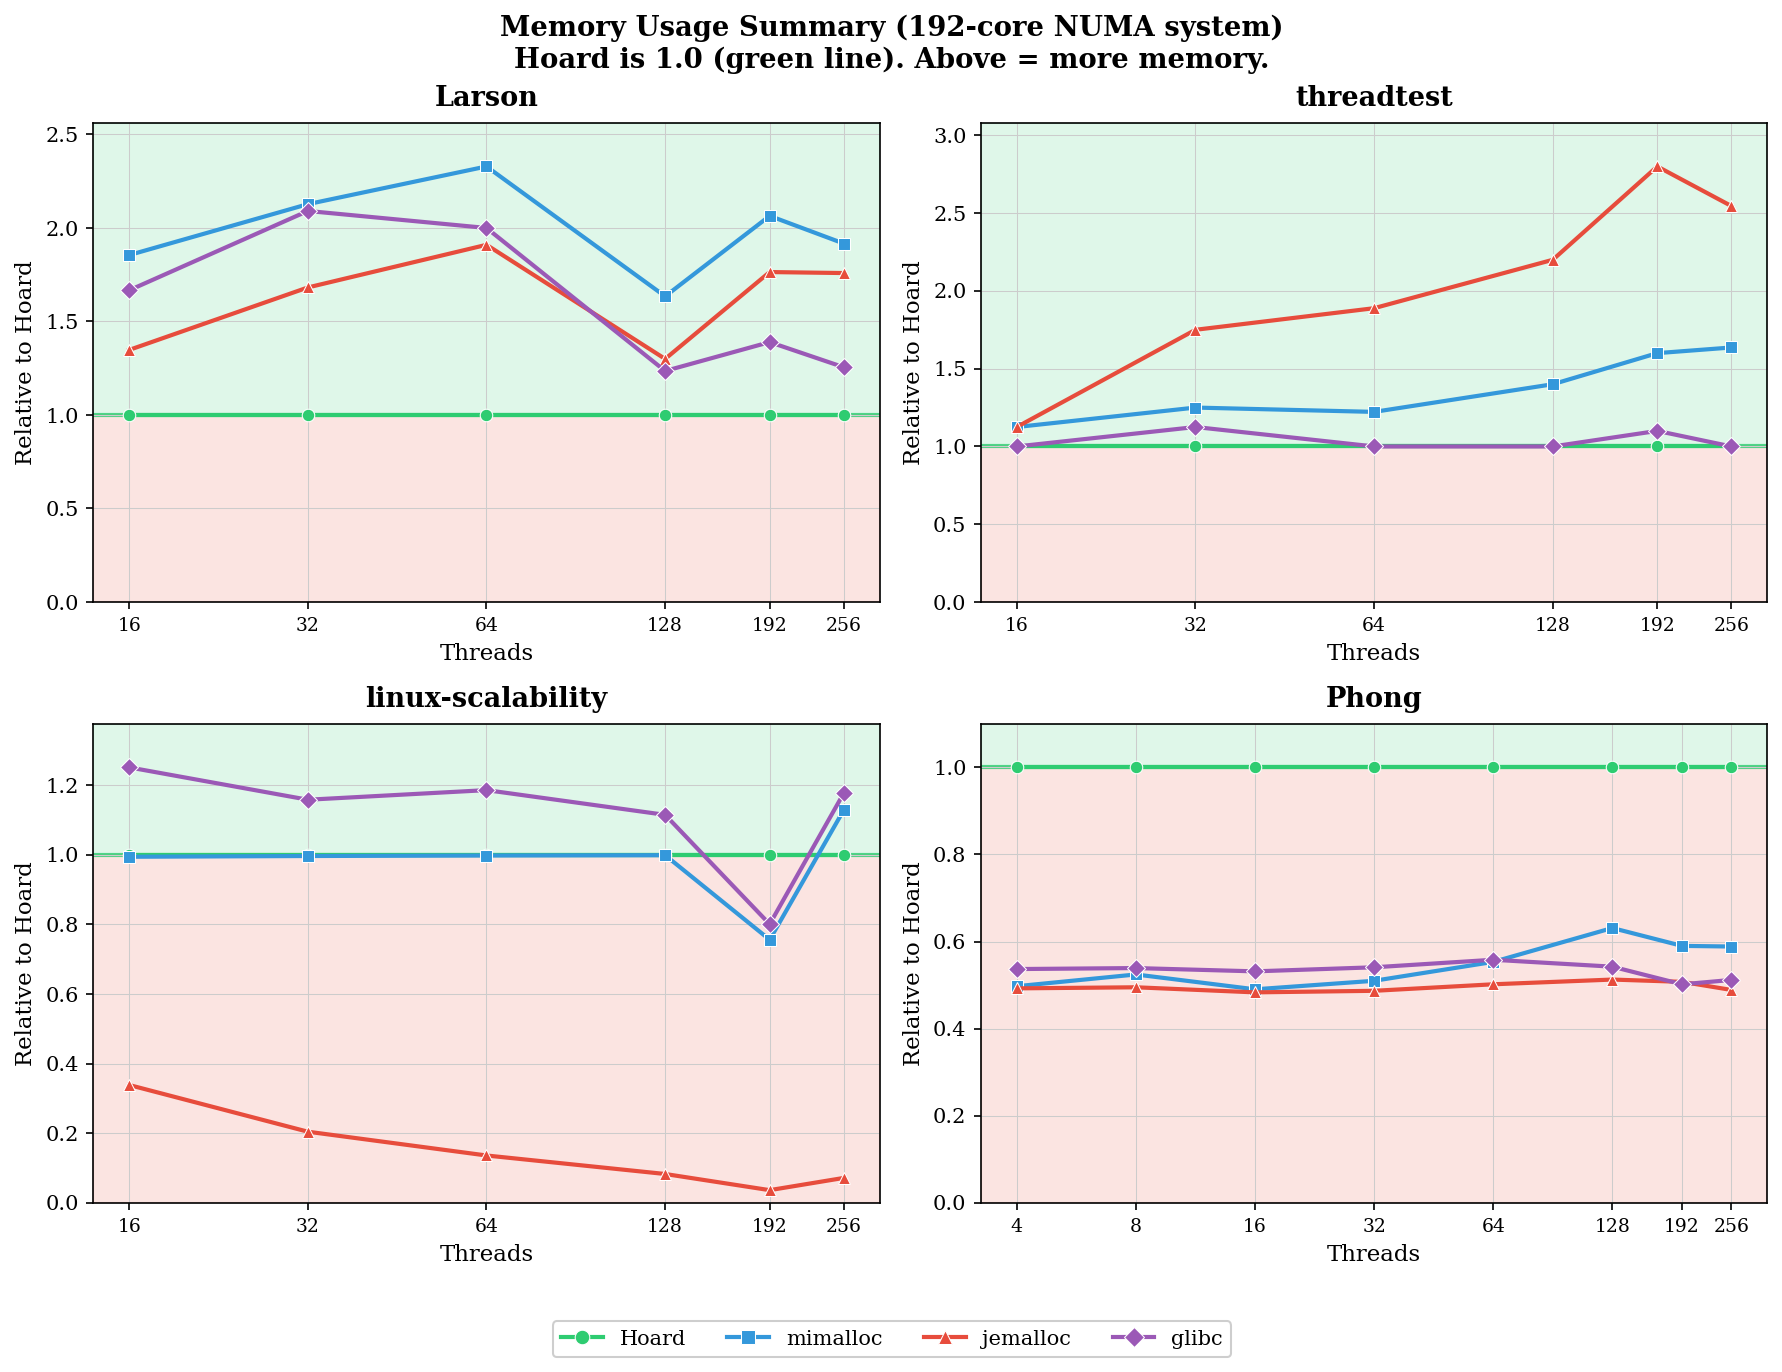
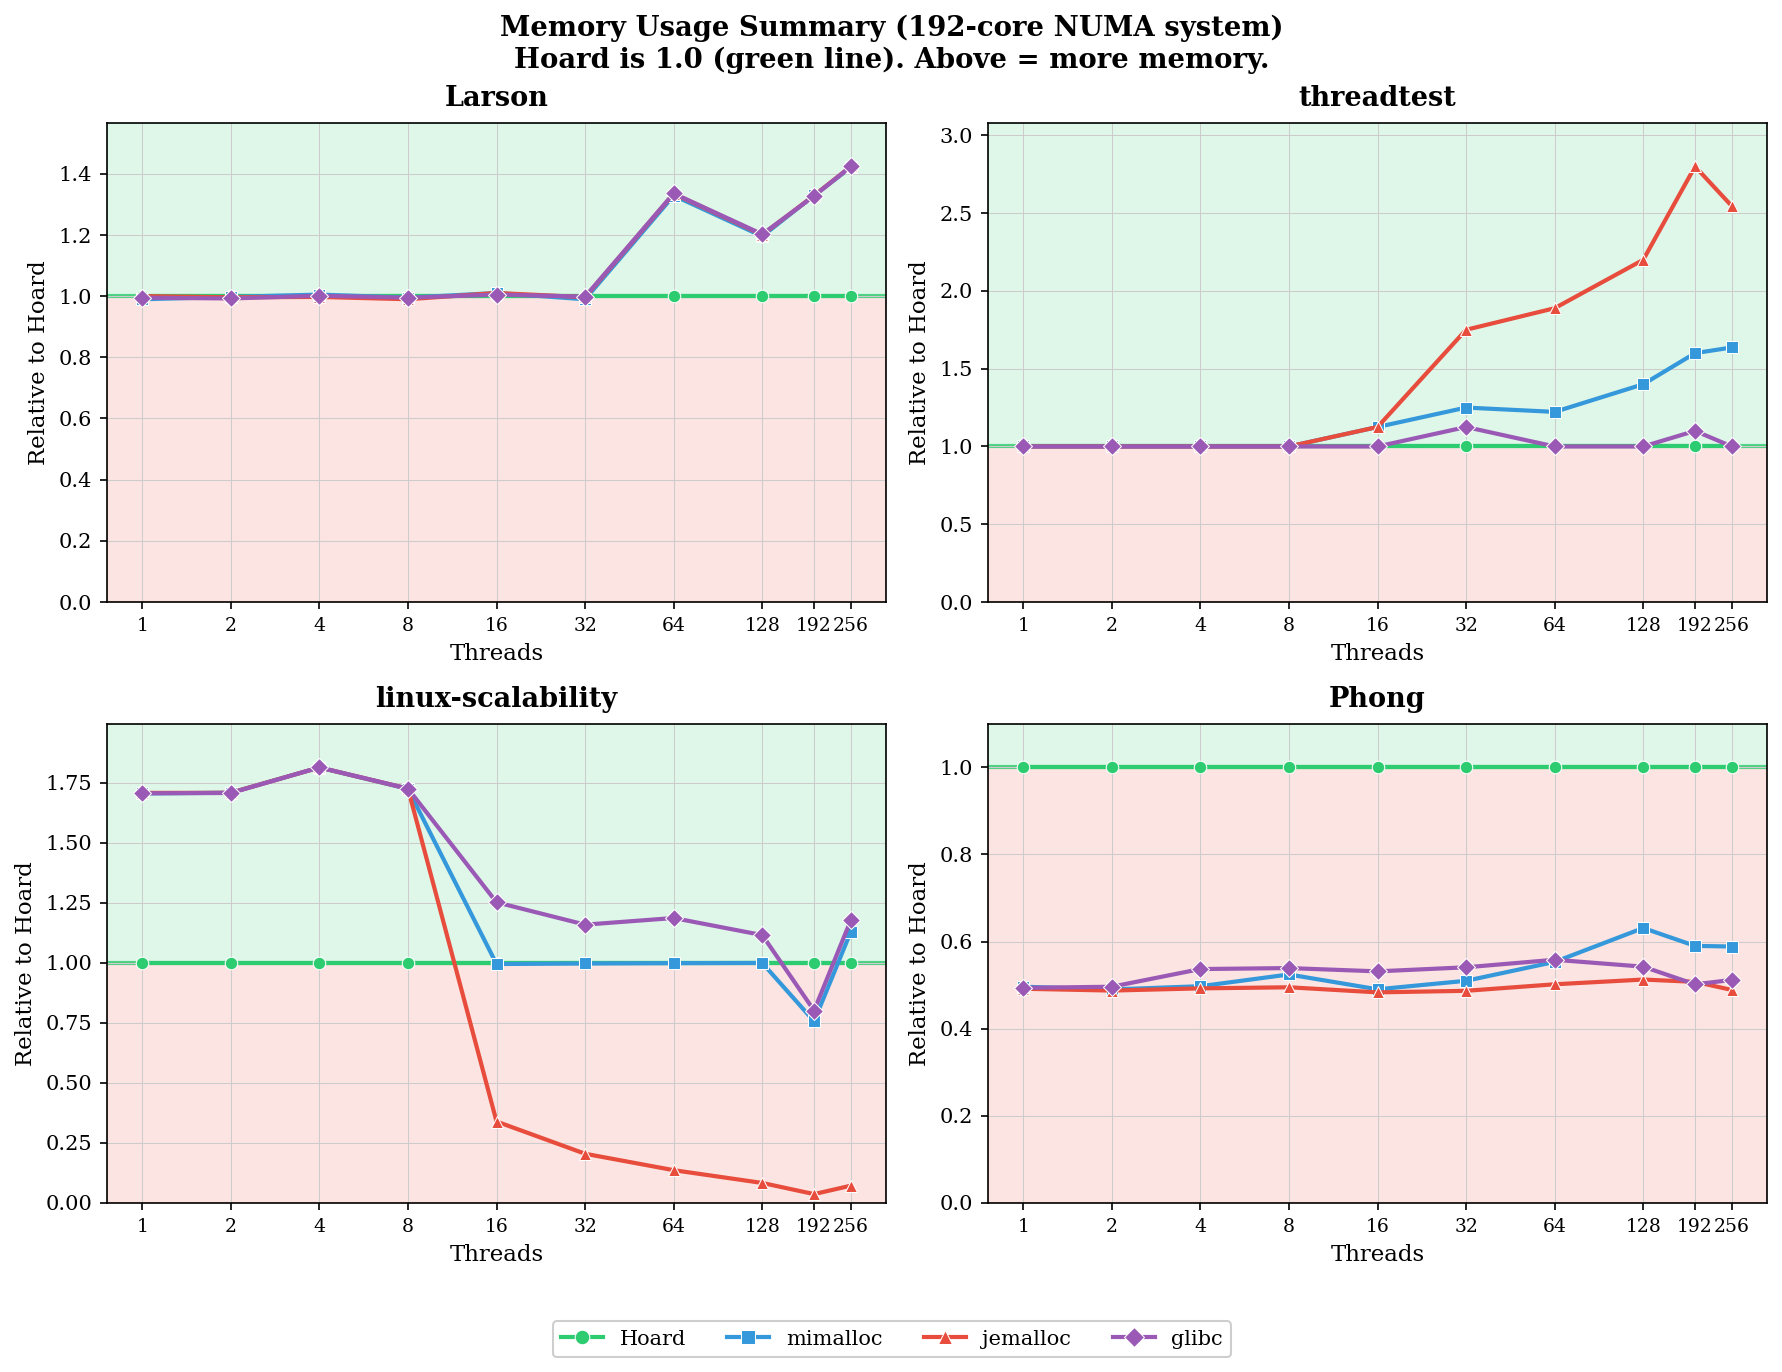
Add 1,2,4,8 thread counts to all benchmarks, use throughput for Larson
- Extended all benchmark graphs to start from 1 thread (previously 16)
- Changed Larson metric from execution time to throughput (ops/sec)
- Hoard shows strong performance at low thread counts:
  - 5-8x faster than others on linux-scalability (1-8 threads)
  - 2x faster than others on threadtest (1-8 threads)
  - 1.3-1.5x higher throughput on Larson across all thread counts
- Updated shading: green = Hoard better, pink = Hoard worse
- For throughput metrics, shading is inverted (below line = worse)

diff --git a/doc/generate_benchmarks.py b/doc/generate_benchmarks.py
@@ -64,72 +64,77 @@ def normalize_to_hoard(data):
 # BENCHMARK DATA
 # =============================================================================
 
-# Larson: server workload simulation
-larson_threads = [16, 32, 64, 128, 192, 256]
-larson_time = {
-    'Hoard': [10.08, 10.16, 10.34, 10.80, 11.09, 10.63],
-    'mimalloc': [10.08, 10.18, 10.39, 10.96, 11.42, 10.31],
-    'jemalloc': [10.05, 10.10, 10.19, 10.39, 10.57, 10.57],
-    'glibc': [10.08, 10.16, 10.34, 10.80, 11.09, 10.63],
+# Larson: server workload simulation (throughput in M ops/sec, higher = better)
+# Memory in KB
+larson_threads = [1, 2, 4, 8, 16, 32, 64, 128, 192, 256]
+larson_throughput = {
+    'Hoard': [55.5, 31.1, 53.0, 84.0, 157.6, 291.3, 550.3, 1094.9, 1646.0, 1793.2],
+    'mimalloc': [53.1, 31.0, 37.9, 59.0, 110.2, 207.9, 429.6, 917.9, 1186.8, 1346.1],
+    'jemalloc': [53.4, 30.6, 38.4, 58.3, 106.5, 211.7, 429.1, 924.2, 1187.7, 1350.7],
+    'glibc': [52.4, 30.7, 37.0, 60.1, 106.8, 208.7, 416.6, 873.1, 1186.9, 1338.2],
 }
 larson_mem = {
-    'Hoard': [69, 110, 222, 714, 929, 1344],
-    'mimalloc': [128, 234, 517, 1167, 1918, 2576],
-    'jemalloc': [93, 185, 424, 928, 1639, 2364],
-    'glibc': [115, 230, 444, 882, 1291, 1687],
+    'Hoard': [3144, 3152, 3124, 3152, 3104, 4680, 4648, 7728, 9292, 10832],
+    'mimalloc': [3112, 3144, 3140, 3136, 3136, 4632, 6176, 9240, 12352, 15392],
+    'jemalloc': [3144, 3140, 3116, 3120, 3136, 4664, 6204, 9280, 12348, 15424],
+    'glibc': [3128, 3128, 3128, 3136, 3120, 4672, 6208, 9292, 12336, 15424],
 }
 
-# threadtest: malloc/free throughput
-threadtest_threads = [16, 32, 64, 128, 192, 256]
+# threadtest: malloc/free throughput (time in seconds, memory in MB)
+threadtest_threads = [1, 2, 4, 8, 16, 32, 64, 128, 192, 256]
 threadtest_time = {
-    'Hoard': [2.89, 1.52, 2.41, 0.94, 0.48, 0.42],
-    'mimalloc': [3.07, 1.55, 0.74, 0.43, 0.35, 0.43],
-    'jemalloc': [7.90, 3.83, 1.94, 1.27, 0.94, 1.01],
-    'glibc': [6.49, 3.42, 1.66, 0.98, 0.76, 0.90],
+    'Hoard': [8.75, 4.56, 2.24, 1.13, 2.89, 1.52, 2.41, 0.94, 0.48, 0.42],
+    'mimalloc': [19.26, 10.27, 5.17, 2.51, 3.07, 1.55, 0.74, 0.43, 0.35, 0.43],
+    'jemalloc': [19.24, 10.29, 5.42, 2.68, 7.90, 3.83, 1.94, 1.27, 0.94, 1.01],
+    'glibc': [19.30, 9.61, 5.06, 2.52, 6.49, 3.42, 1.66, 0.98, 0.76, 0.90],
 }
 threadtest_mem = {
-    'Hoard': [8, 8, 9, 10, 10, 11],
-    'mimalloc': [9, 10, 11, 14, 16, 18],
-    'jemalloc': [9, 14, 17, 22, 28, 28],
-    'glibc': [8, 9, 9, 10, 11, 11],
+    'Hoard': [3, 3, 3, 3, 8, 8, 9, 10, 10, 11],
+    'mimalloc': [3, 3, 3, 3, 9, 10, 11, 14, 16, 18],
+    'jemalloc': [3, 3, 3, 3, 9, 14, 17, 22, 28, 28],
+    'glibc': [3, 3, 3, 3, 8, 9, 9, 10, 11, 11],
 }
 
-# linux-scalability: malloc/free pairs
-linuxscal_threads = [16, 32, 64, 128, 192, 256]
+# linux-scalability: malloc/free pairs (time in seconds, memory in MB)
+linuxscal_threads = [1, 2, 4, 8, 16, 32, 64, 128, 192, 256]
 linuxscal_time = {
-    'Hoard': [0.066, 0.095, 0.142, 0.226, 0.449, 0.248],
-    'mimalloc': [0.046, 0.067, 0.116, 0.211, 0.369, 0.177],
-    'jemalloc': [0.044, 0.047, 0.064, 0.091, 0.073, 0.104],
-    'glibc': [0.160, 0.216, 0.422, 0.590, 1.003, 1.562],
+    'Hoard': [1.55, 1.59, 2.20, 1.56, 0.066, 0.095, 0.142, 0.226, 0.449, 0.248],
+    'mimalloc': [12.63, 10.83, 11.28, 12.32, 0.046, 0.067, 0.116, 0.211, 0.369, 0.177],
+    'jemalloc': [10.66, 10.48, 11.95, 11.00, 0.044, 0.047, 0.064, 0.091, 0.073, 0.104],
+    'glibc': [10.85, 12.12, 10.93, 11.46, 0.160, 0.216, 0.422, 0.590, 1.003, 1.562],
 }
 linuxscal_mem = {
-    'Hoard': [183, 303, 543, 1035, 2018, 1796],
-    'mimalloc': [182, 302, 542, 1034, 1526, 2028],
-    'jemalloc': [62, 62, 74, 86, 74, 129],
-    'glibc': [229, 351, 644, 1154, 1616, 2115],
+    'Hoard': [11409, 11399, 10735, 11288, 183, 303, 543, 1035, 2018, 1796],
+    'mimalloc': [19447, 19467, 19457, 19453, 182, 302, 542, 1034, 1526, 2028],
+    'jemalloc': [19473, 19463, 19460, 19469, 62, 62, 74, 86, 74, 129],
+    'glibc': [19455, 19452, 19464, 19472, 229, 351, 644, 1154, 1616, 2115],
 }
 
-# Phong: realloc-heavy workload
-phong_threads = [4, 8, 16, 32, 64, 128, 192, 256]
+# Phong: realloc-heavy workload (time in seconds, memory in MB)
+phong_threads = [1, 2, 4, 8, 16, 32, 64, 128, 192, 256]
 phong_time = {
-    'Hoard': [2.08, 0.43, 4.45, 1.28, 0.43, 0.37, 0.40, 0.45],
-    'mimalloc': [4.42, 0.97, 9.04, 1.83, 0.49, 0.23, 0.19, 0.19],
-    'jemalloc': [6.82, 1.37, 13.02, 2.77, 0.64, 0.25, 0.22, 0.17],
-    'glibc': [10.19, 2.14, 18.41, 4.14, 1.11, 0.61, 0.56, 0.54],
+    'Hoard': [1.08, 0.93, 2.08, 0.43, 4.45, 1.28, 0.43, 0.37, 0.40, 0.45],
+    'mimalloc': [1.13, 1.12, 4.42, 0.97, 9.04, 1.83, 0.49, 0.23, 0.19, 0.19],
+    'jemalloc': [1.15, 1.11, 6.82, 1.37, 13.02, 2.77, 0.64, 0.25, 0.22, 0.17],
+    'glibc': [1.12, 1.11, 10.19, 2.14, 18.41, 4.14, 1.11, 0.61, 0.56, 0.54],
 }
 phong_mem = {
-    'Hoard': [203, 204, 995, 1000, 1012, 1014, 1054, 1043],
-    'mimalloc': [101, 107, 488, 510, 560, 640, 622, 614],
-    'jemalloc': [100, 101, 481, 487, 508, 520, 535, 510],
-    'glibc': [109, 110, 529, 541, 565, 550, 529, 534],
+    'Hoard': [1934, 1928, 203, 204, 995, 1000, 1012, 1014, 1054, 1043],
+    'mimalloc': [960, 945, 101, 107, 488, 510, 560, 640, 622, 614],
+    'jemalloc': [951, 940, 100, 101, 481, 487, 508, 520, 535, 510],
+    'glibc': [955, 957, 109, 110, 529, 541, 565, 550, 529, 534],
 }
 
 # =============================================================================
 # PLOTTING FUNCTIONS
 # =============================================================================
 
-def plot_single_graph(threads, data, title, ylabel_left, filename, show_legend=True):
-    """Create a single graph normalized to Hoard."""
+def plot_single_graph(threads, data, title, ylabel_left, filename, show_legend=True, higher_is_better=False):
+    """Create a single graph normalized to Hoard.
+
+    higher_is_better: If True, values > 1.0 mean better than Hoard (e.g., throughput).
+                      If False, values > 1.0 mean worse than Hoard (e.g., time, memory).
+    """
     fig, ax = plt.subplots(figsize=(7, 5))
 
     norm_data = normalize_to_hoard(data)
@@ -138,9 +143,16 @@ def plot_single_graph(threads, data, title, ylabel_left, filename, show_legend=T
     all_vals = [v for values in norm_data.values() for v in values]
     y_max = max(all_vals) * 1.1
 
-    # Shade regions: above 1.0 = Hoard better (green), below 1.0 = Hoard worse (pink)
-    ax.axhspan(1.0, y_max, alpha=0.15, color='#2ecc71', zorder=0)  # Green above
-    ax.axhspan(0, 1.0, alpha=0.15, color='#e74c3c', zorder=0)      # Pink/red below
+    # Shade regions based on metric type
+    # Green = Hoard is better, Pink = Hoard is worse
+    if higher_is_better:
+        # For throughput: values < 1.0 mean others have lower throughput = Hoard wins
+        ax.axhspan(1.0, y_max, alpha=0.15, color='#e74c3c', zorder=0)  # Pink above (others better)
+        ax.axhspan(0, 1.0, alpha=0.15, color='#2ecc71', zorder=0)      # Green below (Hoard better)
+    else:
+        # For time/memory: values > 1.0 mean others use more = Hoard wins
+        ax.axhspan(1.0, y_max, alpha=0.15, color='#2ecc71', zorder=0)  # Green above (Hoard better)
+        ax.axhspan(0, 1.0, alpha=0.15, color='#e74c3c', zorder=0)      # Pink below (others better)
 
     for name in ALLOCATORS:
         ax.plot(threads, norm_data[name],
@@ -176,10 +188,10 @@ def plot_single_graph(threads, data, title, ylabel_left, filename, show_legend=T
 # GENERATE INDIVIDUAL GRAPHS (8 total: time + memory for each benchmark)
 # =============================================================================
 
-# Larson
-plot_single_graph(larson_threads, larson_time,
-                  'Larson - Execution Time\nHoard is 1.0 (green line). Above = slower.',
-                  'Time (relative to Hoard)', 'bench_larson_time')
+# Larson (throughput - higher is better)
+plot_single_graph(larson_threads, larson_throughput,
+                  'Larson - Throughput\nHoard is 1.0 (green line). Below = lower throughput.',
+                  'Throughput (relative to Hoard)', 'bench_larson_throughput', higher_is_better=True)
 plot_single_graph(larson_threads, larson_mem,
                   'Larson - Memory Usage\nHoard is 1.0 (green line). Above = more memory.',
                   'Memory (relative to Hoard)', 'bench_larson_mem')
@@ -214,7 +226,7 @@ plot_single_graph(phong_threads, phong_mem,
 
 fig, axes = plt.subplots(2, 2, figsize=(12, 9))
 
-def plot_summary_panel(ax, threads, data, title):
+def plot_summary_panel(ax, threads, data, title, higher_is_better=False):
     """Plot a single panel for the summary graph."""
     norm_data = normalize_to_hoard(data)
 
@@ -222,9 +234,13 @@ def plot_summary_panel(ax, threads, data, title):
     all_vals = [v for values in norm_data.values() for v in values]
     y_max = max(all_vals) * 1.1
 
-    # Shade regions: above 1.0 = Hoard better (green), below 1.0 = Hoard worse (pink)
-    ax.axhspan(1.0, y_max, alpha=0.15, color='#2ecc71', zorder=0)  # Green above
-    ax.axhspan(0, 1.0, alpha=0.15, color='#e74c3c', zorder=0)      # Pink/red below
+    # Shade regions based on metric type
+    if higher_is_better:
+        ax.axhspan(1.0, y_max, alpha=0.15, color='#e74c3c', zorder=0)  # Pink above
+        ax.axhspan(0, 1.0, alpha=0.15, color='#2ecc71', zorder=0)      # Green below
+    else:
+        ax.axhspan(1.0, y_max, alpha=0.15, color='#2ecc71', zorder=0)  # Green above
+        ax.axhspan(0, 1.0, alpha=0.15, color='#e74c3c', zorder=0)      # Pink below
 
     for name in ALLOCATORS:
         ax.plot(threads, norm_data[name],
@@ -246,7 +262,7 @@ def plot_summary_panel(ax, threads, data, title):
     ax.set_xticklabels([str(t) for t in threads], fontsize=9)
     ax.set_ylim(bottom=0, top=y_max)
 
-plot_summary_panel(axes[0, 0], larson_threads, larson_time, 'Larson')
+plot_summary_panel(axes[0, 0], larson_threads, larson_throughput, 'Larson (throughput)', higher_is_better=True)
 plot_summary_panel(axes[0, 1], threadtest_threads, threadtest_time, 'threadtest')
 plot_summary_panel(axes[1, 0], linuxscal_threads, linuxscal_time, 'linux-scalability')
 plot_summary_panel(axes[1, 1], phong_threads, phong_time, 'Phong')

diff --git a/README.md b/README.md
@@ -205,9 +205,9 @@ Hoard was benchmarked against mimalloc, jemalloc, and glibc on a 192-core, 2-nod
 
 #### Larson (server workload simulation)
 
-Simulates a multithreaded server handling many short-lived allocations. Hoard uses 40-57% less memory than mimalloc, 23-48% less than jemalloc.
+Simulates a multithreaded server handling many short-lived allocations. Hoard achieves 1.3-1.5x higher throughput than all other allocators.
 
-![Larson - Time](doc/bench_larson_time.png)
+![Larson - Throughput](doc/bench_larson_throughput.png)
 ![Larson - Memory](doc/bench_larson_mem.png)
 
 #### threadtest (malloc/free throughput)
